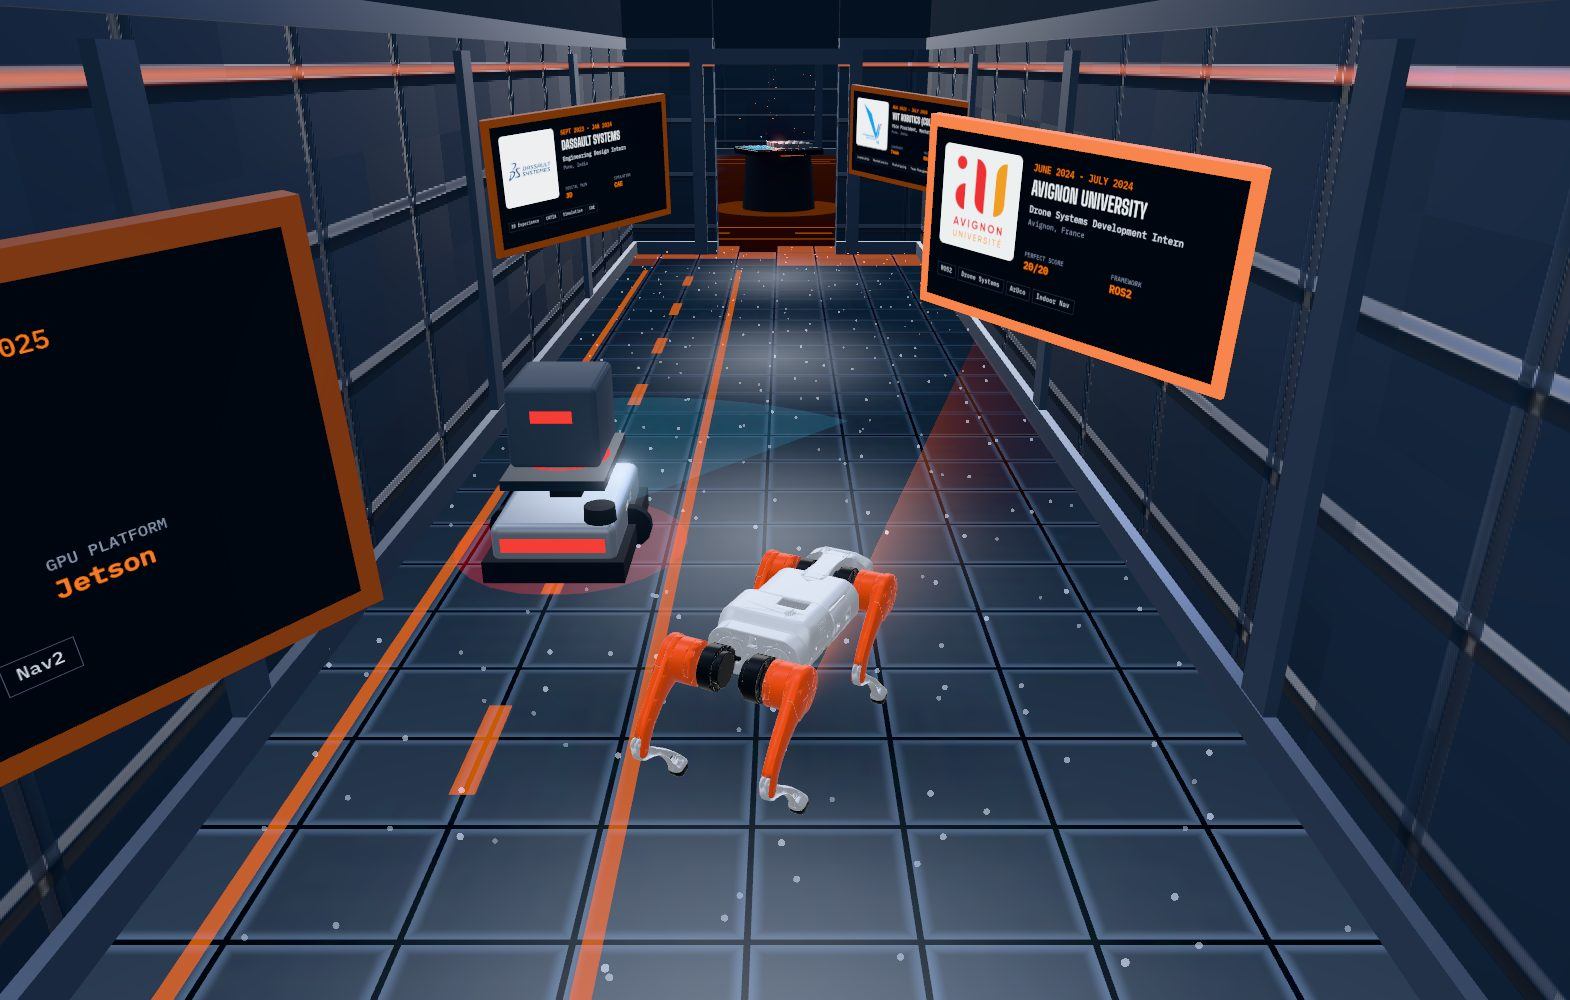
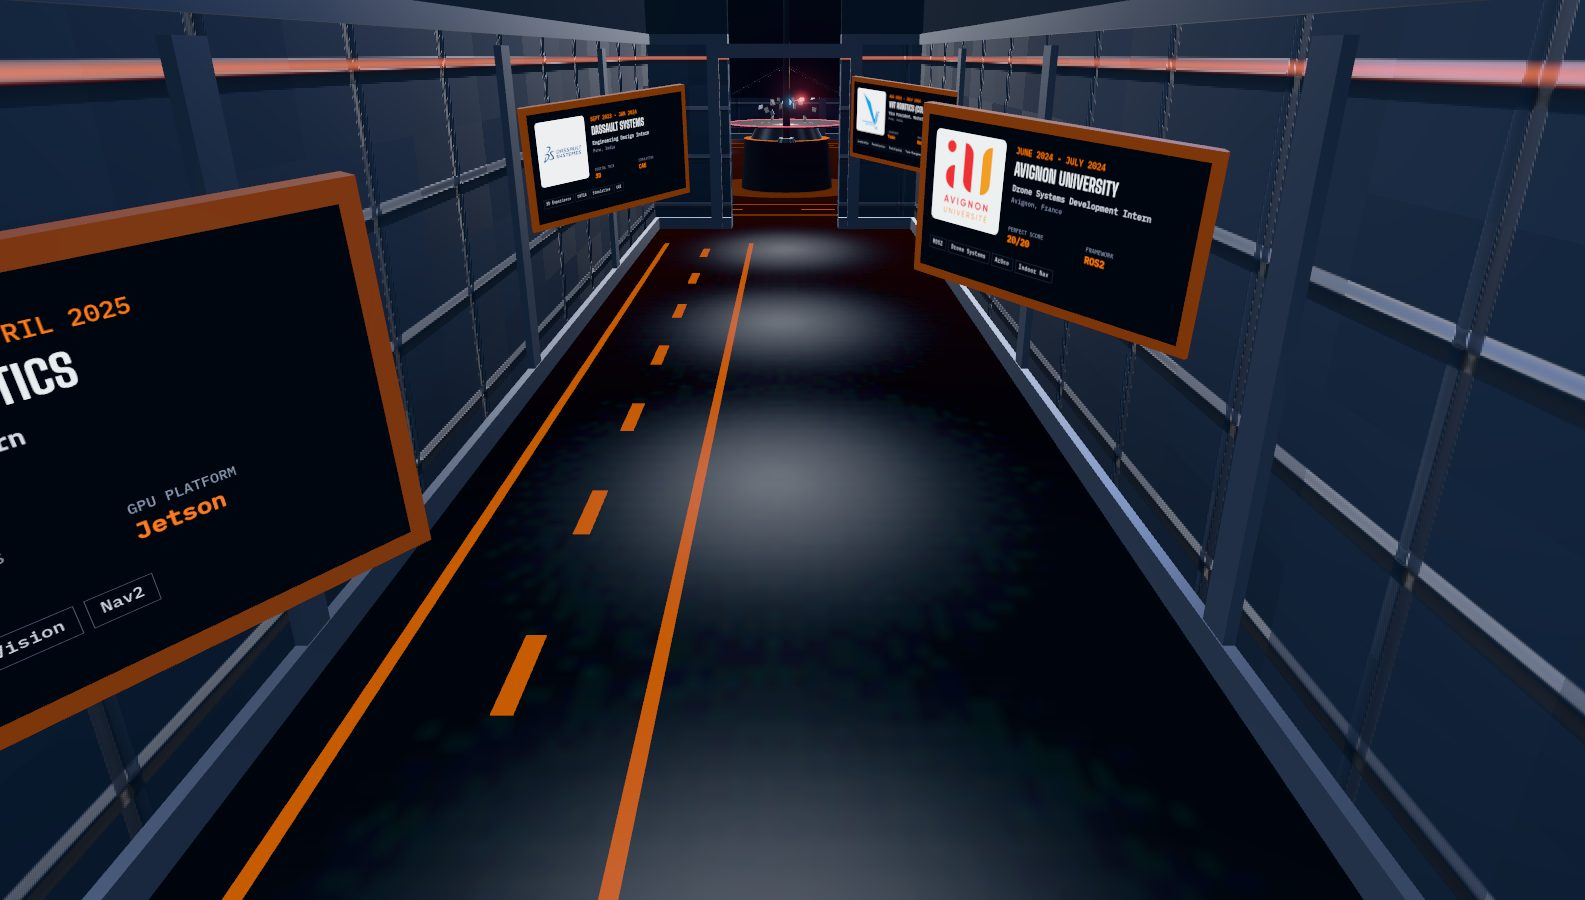
chore(assets): re-bake the static-mode posters
They predated the new holograms, the wider platforms and the ceiling deck.
Zone 5 moved to a point in the zone where an AMR is in the archive aisle.

Zone 3's hologram panels come out black: the SVG posters on them are animated
by framer-motion, which runs on requestAnimationFrame, and the bake ran with
the browser pane hidden. The rest of that frame is faithful — platforms,
stages and lighting are all current — but it wants one more pass.

diff --git a/docs/redesign/HANDOFF.md b/docs/redesign/HANDOFF.md
@@ -190,10 +190,27 @@ GitHub Pages soft limit is ~1 GB per site → re-encoding is not optional. Pendi
   Not touched, because it is not what is costing anything: the draw-call growth (a `Rover` builds 24 separate roller meshes, `OrbitStage` 24 slabs, `Posts` one per pin). Worth merging if the budget ever tightens.
   Still outstanding from earlier rounds: the ceiling gap, the poster re-bake (stale again after all this), and the layout-audit triage from session 3c.
 
+- **2026-09-09 · session 3h · the robots stop walking through the scenery, and the backlog clears**
+  Adyansh, with two screenshots: the Go2 straddling the walls of the facility it is inspecting, the AgroBot driving over the crop it is picking. Plus: make the arm's pick-and-place actually correct. Plus: finish what was outstanding.
+
+  **Both collisions were the same bug.** The layout and the route were authored separately and drifted. `rooms()` cut its doorways into the side walls while the Go2's route moved between rooms front-to-back, so it walked through solid wall every lap; the AgroBot's crop rows were laid straight across the path its base drove. **Doorways are no longer authored at all** — `wallRuns()` takes the route and removes any stretch of wall within the vehicle's clearance, so an opening exists exactly where the robot needs one and the two cannot drift again. The Go2's floorplan became two bays off a corridor (fewer, larger rooms: it has to be recognisable from the aisle *and* fit through its own doors), and the AgroBot works the furrows with headland turns past the ends of the rows. Its route is open rather than closed, because closing it cut a diagonal across the field — so open routes now **ping-pong** instead of wrapping, which was also teleporting it the length of the field every pass. Heading comes from where a vehicle actually moved rather than the leg direction, so it turns instead of snapping and stays right running backwards.
+  **`npm run check:holograms`** samples every route against the structure built around it and fails if the clearance is not there. It also caught three arenas overhanging the platform they stand on.
+
+  **The arm.** The part was positioned in the stage's frame while the tool reports in the arm's, so it hung a deck height below the gripper, and the tray and bin were placed by hand somewhere the arm never reached. Everything is now derived from the trajectory that already existed: the part rides the reported TCP while held, both stations move to wherever the tool actually grasps and releases, and their heights are *scaled* so their tops meet the part's underside. Verified over a full cycle — the tool descends to y 0.087, the grasp fires there, it lifts, traverses, releases at the pad, and a new part arrives while the arm is home.
+
+  **Ceiling gap: found and fixed.** The fascia from session 3e had closed the strip between the wall tops and the ceiling, but the joists were hung in open air — look up in any room and you saw straight past them at the night sky. Every room now carries a deck just above its joists, the hall its own at 4.75 m, each fading against its own height so the loop-closure rise still clears both.
+
+  **Layout audit: triaged, and the answer is zero.** The old audit's 197 hits were all noise, from two sources, and `scripts/audit-layout.js` excludes both by construction rather than by hand: full-height layout wrappers (not content, so they cannot be "cut off") and anything inside a container that scrolls on that axis (the projects tag strip is meant to). It also drives `data-state` directly instead of scrolling, because the scroll position only reaches the DOM through GSAP's ticker — a scroll-based walk silently measures nothing when that ticker is not running, which is exactly what a hidden browser pane does. **Clean at 1366×768, 1440×900, 1920×1080, 2000×1114 and 2560×1080**, seven zones each, with planted probes confirming the detector still bites.
+
+  **Posters re-baked.** `npm run posters:shots` computes the camera for each zone from `shotAt` — the shot is a pure function of (zone, zoneT, robot, beat), so drive the camera to it rather than scrolling and hoping. `npm run posters:sink` is a five-line server the page POSTs frames to, because getting a 200 kB JPEG out of a console evaluation is the awkward part. Procedure: start the sink, open `?mode=world&capture=1`, set `window.__freecam` to a shot, let it settle, `fetch('http://localhost:4321/zone-N', {method:'POST', body: window.__captureWorld()})`.
+  **⚠ One caveat on zone-3.** Its poster is structurally correct — new platforms, new stages, new lighting — but the hologram panels bake **black**, because the SVG posters are animated by framer-motion and framer-motion runs on rAF. Re-bake zone-3 with the browser actually visible and it will come out right; everything else is faithful.
+
+  **Working note worth keeping.** A hidden browser pane parks `requestAnimationFrame`. Screenshots still capture (they force a paint) so everything *looks* fine, but nothing animates, the R3F loop does not advance, GSAP does not tick, and — because the viewport boots at zero width — the page silently enters **static mode**, serving baked posters instead of the world. Two hours went into chasing symptoms of that. `?mode=world` forces the world on; `window.__r3f.advance(t)` steps the scene by hand (~250 ms a frame while hidden, and yield between batches or React never commits); `/lab/tall?cam=x,y,z&look=x,y,z` moves the lab rig for close inspection.
+
 ## 8. Next steps (in order)
 
 0. **State on 2026-09-03 end of session 1: P0–P5 essentially complete; the site runs locally at http://localhost:3000/my-portfolio (`npm run dev`).** Remaining polish ideas (not blockers): idle frame throttling (30 fps when no scroll), Lighthouse pass, hackathon/credential cards could reveal the podiums/racks more, robot arm hologram table alignment, R1 pose refinement, hero boot-log on short viewports, `?debug=joints` sliders. Deferred by Adyansh: media re-encode + broken `Robocon 1.mp4`, deployment. Nothing is committed on `redesign-3d` yet (ask Adyansh before committing/pushing).
 1. **Wait for Adyansh to say "go"** (he wanted to read the plan first). Answer any plan questions; adjust PLAN.md if he asks for changes.
 2. Then execute `docs/redesign/PLAN.md` phases P0 → P5 in order. Each phase ends with tsc + lint + browser check + updating this file's work log.
 3. Open items: which robot arm at the RWTH hackathon / Robotics Collective (PLAN assumes UR5e). Local commits are wanted and now exist (see the 2026-09-04 log entry); **pushing is still forbidden**.
-4. **Resume point (2026-09-07): see session 3g above.** The holograms are done and the hall is back at 60 fps. Next: the ceiling gap, the static-mode poster re-bake, and the untriaged layout audit from 3c.
+4. **Resume point (2026-09-09): see session 3h above.** The backlog is clear — collisions, arm kinematics, ceiling, audit and posters are all done. The one loose end is re-baking `public/posters/zone-3.jpg` with the browser pane visible, so the hologram panels are not black. Still deferred by Adyansh: media re-encode and deployment.
